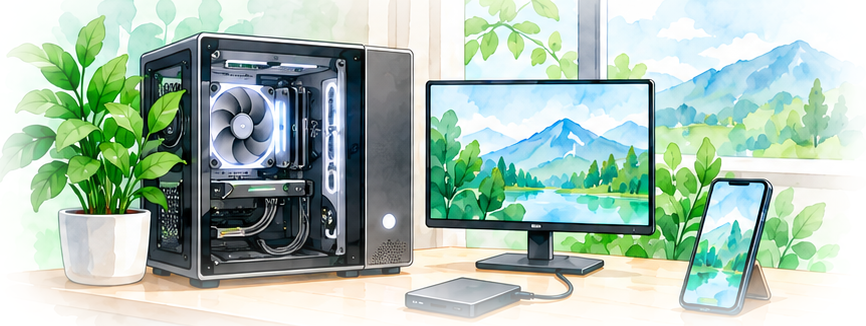
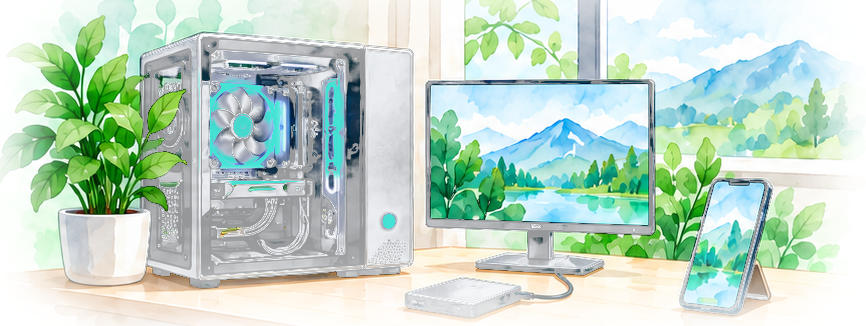
驾驶舱：首屏插画挂小鸟、外设改白 RGB 改蓝绿、处理器卡不再挂资源原因
- 首屏插画包进带 data-living-config 的 figure，复用全站同一环境动画引擎和小鸟图集；只给小鸟配置（落在显示器右前方木桌），不带路、不上卡片；手机插画收起，小鸟不出现
- 插画外设本体（机箱、显示器、扩展坞、手机）改白色，RGB 灯光改蓝绿；像素调色，构图不变
- 处理器卡删掉前端自猜的系统资源原因，内存/系统资源用后端 system_resources 卡原文；首屏电脑格按两张卡分开说，资源偏高时不再显示成全好或说成处理器

Changed region(s): [[0.1559, 0.092, 0.9042, 0.9816], [0.8106, 0.5215, 0.9042, 0.7055]]

diff --git a/site-astro/src/cockpit/render.js b/site-astro/src/cockpit/render.js
@@ -1,6 +1,6 @@
 // 驾驶舱各块的 HTML。构建时用最近一份快照画出首帧，浏览器拿到新数据后用同一组函数原地换掉每块里面的内容。
 // 每块外框（[data-cp] 所在的元素）始终在，数据没到只换字，不出空框、不换版式。
-import { hm, dateHm, when, ago, light, splitChecked, dedupeCards, isToday } from './model.js';
+import { hm, dateHm, when, ago, light, dedupeCards, isToday } from './model.js';
 
 const esc = (s) => String(s ?? '').replace(/&/g, '&amp;').replace(/</g, '&lt;').replace(/>/g, '&gt;').replace(/"/g, '&quot;');
 // 图片地址由页面传入（构建时 Vite 给的带指纹地址）；没传时按素材原名
@@ -211,7 +211,8 @@ export function computer(v, ctx) {
     : `<article class="cp-card is-gray"><h3>${dot('unavailable')}24 小时曲线</h3><p>图表网页现在打不开${g.checked_at ? `（上次检查 ${esc(when(g.checked_at, ctx.now))}）` : ''}。</p></article>`;
   // Grafana 后台登录：根地址来自接口，后面拼 login；接口没给地址就不出这张卡
   const login = g.url ? `<a class="cp-card cp-chart cp-login" href="${esc(new URL('login', g.url).href)}" target="_blank" rel="noopener"><h3><span class="cp-login-icon" aria-hidden="true"></span>Grafana 后台登录 →</h3><p>登录后看全部图表、改面板（新标签页）。</p></a>` : '';
-  const cards = dedupeCards(v.sections.computer).map((c) => (c.id === 'computer_health' ? card(c, ctx.now).replace('</p>', '</p>' + pcReason(v)) : card(c, ctx.now))).join('');
+  // 处理器卡只按温度上色；内存和系统资源是后端单独的一张卡（system_resources），正文就是真实触发项，这里不再自己补猜的原因
+  const cards = dedupeCards(v.sections.computer).map((c) => card(c, ctx.now)).join('');
   // 副机（笔记本）在不在线，接在远程连接卡里（remote_network.secondary_laptop；没读到就不写这一行）
   const lap = LAPTOP[v.laptop.state];
   const remote = (dedupeCards(v.sections.remote).map((c) => card(c, ctx.now)).join('') || card({ title: '远程连接', state: 'unavailable', text: '' }, ctx.now)).replace('<article ', '<article id="remote" ')
@@ -219,23 +220,6 @@ export function computer(v, ctx) {
   return `<div class="cp-grid">${cards}${remote}</div><div id="grafana" class="cp-grid cp-charts">${graf}${login}</div>`;
 }
 const LAPTOP = { online: ['在线', 'ok'], offline: ['离线（要用它时得先开机连网）', 'attention'] };
-
-// 电脑有预警时说清原因：哪一项涨得最多、现在多少；“AI 核对、你不用关软件”是后端 pc-health 待办的原话。
-// 再列出之前定过、和电脑卡有关的暂缓办法（你有空时）。原因字段没到就什么都不加。
-const PC_METRIC = { nonpaged_pool_bytes: '非分页池（系统内核自己占的内存）', paged_pool_bytes: '分页池（系统内核占的内存）', committed_bytes: '已提交内存', handle_count: '句柄数' };
-const gb = (b) => `${Math.round(b / 2 ** 30 * 10) / 10} GB`;
-function pcReason(v) {
-  const h = v.pc_health;
-  if (!['warn', 'error'].includes(h.state)) return '';
-  const m = h.metrics || {}, d = h.changes_24h || {};
-  const top = Object.keys(PC_METRIC).filter((k) => Number.isFinite(m[k]) && d[k] > 0 && m[k] > d[k]).sort((a, b) => d[b] / (m[b] - d[b]) - d[a] / (m[a] - d[a]))[0];
-  const what = String(h.reason_code || '').startsWith('resource_growth') ? '系统资源一直在涨' : '系统资源超过了警戒线';
-  const fmt = (k, n) => (k === 'handle_count' ? `${Math.round(n / 1e4) / 10} 万个` : gb(n));
-  const detail = top ? `：${PC_METRIC[top]}现在 ${fmt(top, m[top])}，24 小时涨了 ${fmt(top, d[top])}` : '';
-  const plan = v.deferred.filter((x) => /卡住|卡死|超频|BIOS/.test(x.title || '')).map((x) => splitChecked(x.title).title);
-  return `<p class="cp-reason">原因：${what}${esc(detail)}。卡顿原因还没查明，由 AI 按现有办法核对，你不用自己关软件。</p>`
-    + (plan.length ? `<p class="cp-plan">之前定过的办法（你有空时）：${plan.map(esc).join('；')}</p>` : '');
-}
 
 export function backup(v, ctx) {
   const cards = dedupeCards(v.sections.backup_cloud).map((c) => card(c.id === 'drive_upload' ? { ...c, text: knownFirst(c.text) } : c, ctx.now)).join('');
@@ -413,9 +397,16 @@ function tri(v, ctx, off) {
   const handled = (s, fallback) => (s?.handler_text ? s.handler_text : fallback);
   // 电脑
   const pc = sigOf(ov, 'computer'), pcWhy = whyOf(ov, 'computer');
-  const pcCard = (v.sections.computer.find((c) => c.id === 'computer_health') || {}).text || '';
-  const pcStatus = pc.level === 'ok' ? '正常' : pc.level === 'act' || pc.level === 'watch' ? (pcWhy.some((t) => /资源/.test(t)) || !pcWhy.length ? '资源有预警' : pcWhy[0]) : '读不到';
-  const pcWho = pc.level === 'ok' ? '你不用管' : handled(pc, '不用你动手 · 交给 AI 盯着');
+  // 处理器（computer_health，只看温度）和内存/系统资源（system_resources）分开说：哪张卡亮了就说哪张，原因用后端卡片原文，不把资源问题说成处理器的
+  const pcOf = (id) => v.sections.computer.find((c) => c.id === id) || null;
+  const proc = pcOf('computer_health'), res = pcOf('system_resources');
+  const bad = (c) => !!c && ['attention', 'red'].includes(c.state);
+  const pcLevel = pc.level === 'ok' && (bad(proc) || bad(res)) ? 'watch' : pc.level;
+  const pcBad = [bad(proc) && '处理器偏热', bad(res) && '内存/系统资源偏高'].filter(Boolean);
+  const pcStatus = pcLevel === 'ok' ? '正常' : pcLevel === 'act' || pcLevel === 'watch' ? (pcBad.length ? pcBad.join('，') : pcWhy[0] || '资源有预警') : '读不到';
+  const pcWho = pcLevel === 'ok' ? '你不用管' : handled(pc, '不用你动手 · 交给 AI 盯着');
+  const pcText = (c) => String(c?.text || '').replace(/^电脑读数：/, '');
+  const pcDetail = (pcBad.length ? [bad(res) && pcText(res), bad(proc) && pcText(proc)] : [proc?.text && '现在 ' + pcText(proc)]).filter(Boolean).join('；');
   // 自动任务：今天出错数和“今天的动态”同一份（today_activity.summary.errors）
   const tk = sigOf(ov, 'today_tasks'), errs = todayErrors(v), sum = v.today_activity?.summary || {};
   const nErr = errs ? errs.owner + errs.other : Number.isFinite(tk.value) ? tk.value : null;
@@ -429,7 +420,7 @@ function tri(v, ctx, off) {
   const bkWho = bk.level === 'ok' ? '你不用管' : handled(bk, '不用你动手 · 交给 AI');
   const bkMore = bkWhy.length > 1 ? `另有 ${bkWhy.length - 1} 项：${bkWhy.slice(1).join('、')}` : Number.isFinite(bk.value) && bk.level !== 'ok' ? `共 ${bk.value} 项不正常` : '';
   return `<ul class="cp-tri">`
-    + cell('computer', '电脑', pc.level, pcStatus, pcWho, pcCard.replace(/^电脑读数：/, '现在 '))
+    + cell('computer', '电脑', pcLevel, pcStatus, pcWho, pcDetail)
     + cell('tasks', '自动任务', tk.level, tkStatus, tkWho, tkWhy)
     + cell('backup', '备份', bk.level, bkStatus, bkWho, bkMore)
     + `</ul>`;
@@ -482,7 +473,7 @@ export function page(v, ctx) {
     <h1><img src="${src(ctx, 'cockpit-01-title-01.png')}" alt="驾驶舱" width="483" height="198" loading="eager"><span class="cp-h1-text" aria-hidden="true">驾驶舱</span></h1>
     <p class="cp-lead">先看你现在要做几件事，再看电脑、自动任务、备份谁在办。每分钟从电脑读一次，时间都是北京时间；右下角 ↻ 立刻重读。</p>
   </div>
-  <img class="cp-hero-art" src="${src(ctx, 'cockpit-01-illustration-01.png')}" alt="" width="866" height="326" loading="eager">
+  <figure class="cp-hero-art"${ctx?.birdConfig ? ` data-living-config="${ctx.birdConfig}"` : ''}><img src="${src(ctx, 'cockpit-01-illustration-01.png')}" alt="" width="866" height="326" loading="eager" crossorigin="anonymous"></figure>
   <div class="cp-overview" data-cp="overview">${overview(v, ctx)}</div>
   <div class="cp-security-wrap"><h2 class="cp-security-title"><img src="${src(ctx, 'cockpit-07-title-01.png')}" alt="安全和授权" width="719" height="180" loading="eager"></h2><div class="cp-security" data-cp="security">${security(v, ctx)}</div></div>
 </section>

diff --git a/site-astro/src/cockpit/cockpit.css b/site-astro/src/cockpit/cockpit.css
@@ -30,7 +30,10 @@
 .cp-hero h1 { margin: 0; line-height: 0; }
 .cp-hero h1 img { height: 76px; width: auto; }
 .cp-h1-text { display: none; }
-.cp-hero-art { grid-area: art; width: 100%; align-self: center; max-height: 330px; object-fit: contain; }
+.cp-hero-art { grid-area: art; width: 100%; align-self: center; margin: 0; position: relative; }
+/* 小鸟（环境动画引擎）按这张图的框落脚：图按宽度等比显示，不留 contain 的空边 */
+.cp-hero-art > img { display: block; width: 100%; height: auto; max-height: 330px; object-fit: contain; }
+.cp-page .living-bird img { max-width: none; } /* 小鸟图集按帧裁切，不能被全页 img 的 max-width: 100% 压扁 */
 .cp-lead { margin: 8px 0 0; color: var(--cp-soft); font-size: 15px; }
 .cp-overview { display: contents; }
 .cp-security-wrap { grid-area: sec; }

diff --git a/tests/test_cockpit_w2_display.py b/tests/test_cockpit_w2_display.py
@@ -1,4 +1,4 @@
-"""驾驶舱 W2 显示：时间写日期、电脑卡原因句、验收合并、项目红灯只给等你的、今天出错清单传给河。"""
+"""驾驶舱 W2 显示：时间写日期、处理器卡不再自己猜资源原因、内存/系统资源卡用后端原文、首屏电脑摘要分开说、验收合并、项目红灯只给等你的、今天出错清单传给河。"""
 import subprocess
 import unittest
 from pathlib import Path
@@ -19,7 +19,8 @@ const assert = require('node:assert/strict');
   const v = normalize({
     schema: 'pcconfig.cockpit-view.v1',
     sections: {
-      computer: [{ id: 'computer_health', title: '电脑资源', text: '处理器 24%', state: 'attention', observed_at: '2026-10-12T00:29:00+08:00' },
+      computer: [{ id: 'computer_health', title: '处理器', text: '电脑读数：处理器 24%，52℃', state: 'ok', observed_at: '2026-10-12T00:29:00+08:00' },
+                 { id: 'system_resources', title: '内存/系统资源', text: '系统内核内存 8.5 GB，偏高；可分页内核内存 6.8 GB，偏高', state: 'attention', observed_at: '2026-10-12T00:29:00+08:00' },
                  { id: 'traffic', title: '套餐流量', text: '已用 521 GB', state: 'unavailable', observed_at: '2026-10-10T14:18:00+08:00' }],
       remote: [{ id: 'remote', title: '远程连接', text: '远程连接在线', state: 'ok' }],
       backup_cloud: [{ id: 'drive_upload', title: 'Google Drive 上传', text: '上传器：现在有没有在上传还不知道。18:47 读到时没在传。', state: 'ok' }],
@@ -35,9 +36,19 @@ const assert = require('node:assert/strict');
   });
   const ctx = { now, offline: false, projectUrls: {}, img: {} };
   const pc = R.computer(v, ctx);
-  assert.match(pc, /原因：系统资源超过了警戒线：非分页池（系统内核自己占的内存）现在 8 GB，24 小时涨了 5 GB/);
-  assert.match(pc, /之前定过的办法（你有空时）：下次电脑卡住时，先按几个简单步骤查一下</);
-  assert.doesNotMatch(pc, /换键盘/);
+  // 本人 10-12：内存引起的黄不能挂在处理器上；前端不再从 pc_health 自己挑触发项，用后端 system_resources 卡的原文
+  assert.doesNotMatch(pc, /原因：|cp-reason|cp-plan|非分页池/);
+  assert.match(pc, /cp-card is-green"><h3>.*?处理器<\/h3><p>电脑读数：处理器 24%，52℃<\/p>/);
+  assert.match(pc, /cp-card is-yellow"><h3>.*?内存\/系统资源<\/h3><p>系统内核内存 8.5 GB，偏高；可分页内核内存 6.8 GB，偏高<\/p>/);
+  // 首屏：总览给 ok 但资源卡亮黄时不能显示成全好；说的是资源，不是处理器
+  const ov = { stale: () => false, lamp: () => '' };
+  const top = R.page({ ...v, overview: { as_of: '2026-10-12T00:29:00+08:00', score: 90, signals: [{ id: 'computer', level: 'ok' }], reasons: [] } }, { ...ctx, ov });
+  const cell = /<li class="cp-tri-cell is-(\w+)" data-signal="computer">(.*?)<\/li>/.exec(top);
+  assert.ok(cell, '首屏有电脑格');
+  assert.equal(cell[1], 'yellow');
+  assert.match(cell[2], /内存\/系统资源偏高/);
+  assert.match(cell[2], /系统内核内存 8.5 GB，偏高/);
+  assert.doesNotMatch(cell[2], /处理器偏热|处理器 24%/);
   assert.match(pc, /这是 10月10日 14:18 读到的，之后 34 小时没读到新的/);
   assert.match(pc, /笔记本（副机）：在线/);
   assert.match(R.backup(v, ctx), /上传器：18:47 读到时没在传。现在有没有在上传还不知道。/);
